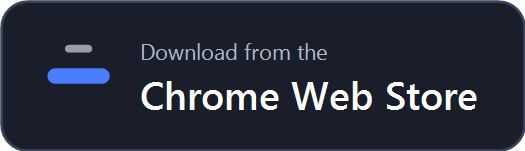
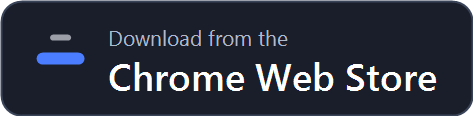
Enlarge the store button's text, not the button
Reverts $D to 1 so the button keeps its original 58px height, and raises the
type instead: 8.5 -> 10.5 and 15 -> 19, with the baselines re-centred. Width
follows the text at 236px, since it's measured rather than fixed.

diff --git a/README.md b/README.md
@@ -4,7 +4,7 @@
 [![License: MIT](https://img.shields.io/badge/license-MIT-blue.svg)](LICENSE)
 
 <a href="https://chromewebstore.google.com/detail/subtitle-scaler/oflehfffcfgohboepehdiejebjhlgbhn">
-  <img src="assets/chrome-web-store-badge.png" width="262" alt="Download from the Chrome Web Store">
+  <img src="assets/chrome-web-store-badge.png" width="236" alt="Download from the Chrome Web Store">
 </a>
 
 Disney+ pins caption font size to a fixed preset ladder in `px` rather than to the
